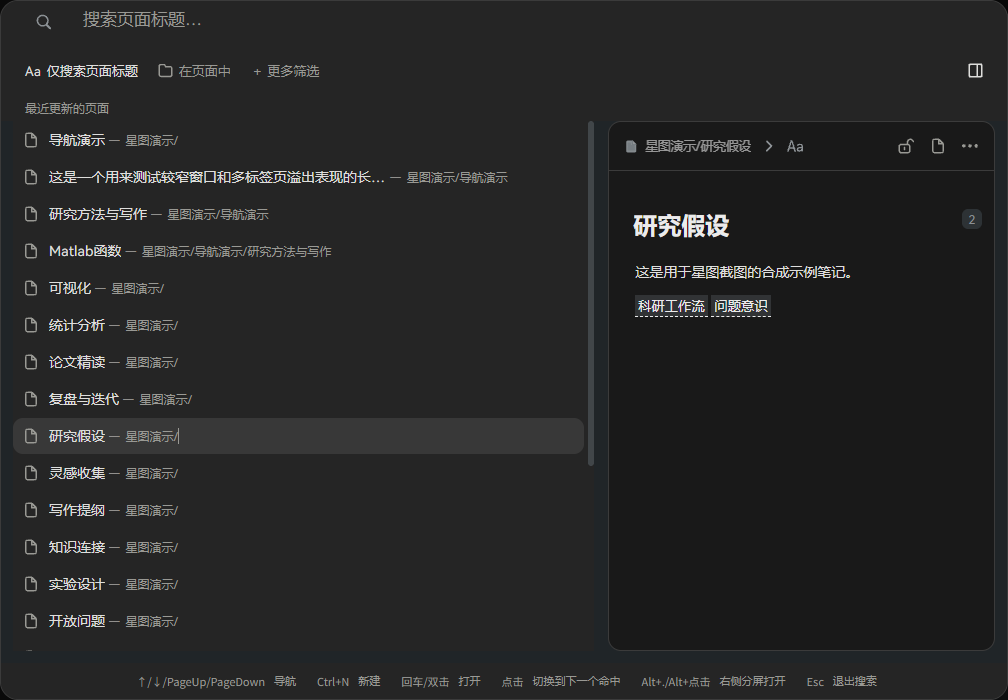
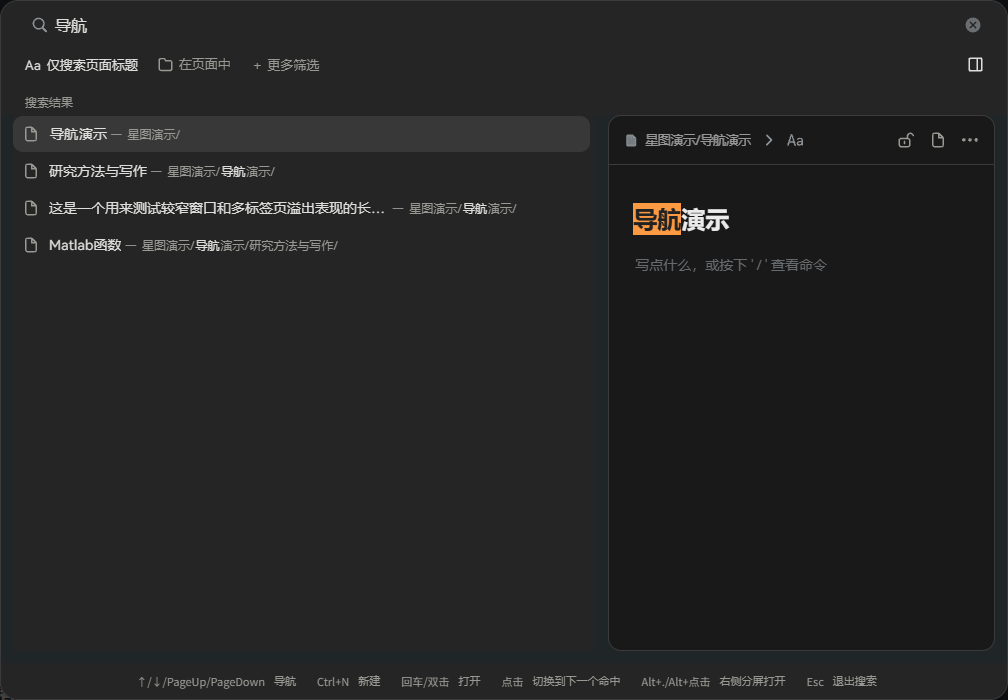
Align global search header across themes

diff --git a/index.js b/index.js
@@ -1,7 +1,7 @@
 const { Plugin, Setting, getAllEditor, openTab, showMessage } = require('siyuan');
 const css = "/* Scoped to the central workspace: sidebars, popovers and note content stay native. */\nhtml[data-theme-mode=\"dark\"] .layout__center {\n  --nn-tab: #202020;\n  --nn-active: #191919;\n  --nn-line: #303030;\n  --nn-text: #ebebeb;\n  --nn-muted: #9b9b9b;\n  --nn-separator: #555555;\n  --nn-hover: #292929;\n}\nhtml[data-theme-mode=\"light\"] .layout__center {\n  --nn-tab: #f7f7f5;\n  --nn-active: #ffffff;\n  --nn-line: #e9e9e7;\n  --nn-text: #37352f;\n  --nn-muted: #787774;\n  --nn-separator: #c4c4c0;\n  --nn-hover: #efefed;\n}\n.layout__center [data-type=\"wnd\"] > .fn__flex:has(> .layout-tab-bar) {\n  min-width: 0;\n  background: var(--nn-tab) !important;\n  border-radius: 0 !important;\n  box-shadow: inset 0 -1px var(--nn-line) !important;\n}\n.layout__center,\n.layout__center > .fn__flex:has([data-type=\"wnd\"]) {\n  border-top-left-radius: 0 !important;\n  border-top-right-radius: 0 !important;\n}\n.layout__center .layout-tab-bar {\n  margin-top: 0 !important;\n  margin-bottom: 0 !important;\n  margin-left: 0 !important;\n  /* SiYuan sets inline margin-right to reserve toolbar/window controls in merged mode. */\n  margin-right: 0;\n  height: 38px !important;\n  min-height: 38px !important;\n  padding: 0 !important;\n  gap: 0 !important;\n  border-radius: 0 !important;\n  background: transparent !important;\n  box-shadow: none !important;\n  border: 0 !important;\n}\nbody:not(.body--toolbar-hide) .layout__center .layout-tab-bar {\n  margin-right: 0 !important;\n}\n.layout__center .layout-tab-bar > .item:not(.item--readonly) {\n  box-sizing: border-box !important;\n  height: 38px !important;\n  min-height: 38px !important;\n  flex: 0 0 220px !important;\n  width: 220px !important;\n  max-width: 220px !important;\n  justify-content: flex-start !important;\n  margin: 0 !important;\n  padding: 0 12px 0 16px !important;\n  border: 0 !important;\n  border-right: 1px solid var(--nn-line) !important;\n  border-radius: 0 !important;\n  background: transparent !important;\n  box-shadow: none !important;\n  color: var(--nn-text) !important;\n  transition: none !important;\n  font-style: normal !important;\n}\n.layout__center .layout-tab-bar > .item:not(.item--readonly)::before,\n.layout__center .layout-tab-bar > .item:not(.item--readonly)::after {\n  display: none !important;\n}\n.layout__center .layout-tab-bar > .item:not(.item--readonly):hover {\n  background: var(--nn-hover) !important;\n  color: var(--nn-text) !important;\n}\n.layout__center .layout-tab-bar > .item.item--focus {\n  background: var(--nn-active) !important;\n  color: var(--nn-text) !important;\n}\n.layout__center .layout-tab-bar .item__text {\n  padding: 0 !important;\n  margin: 0 !important;\n  flex: 1 1 auto !important;\n  min-width: 0;\n  text-align: left !important;\n  font-family: var(--b3-font-family) !important;\n  font-style: normal !important;\n  font-size: 14px !important;\n  line-height: 20px !important;\n  color: inherit !important;\n  font-weight: 400 !important;\n  text-shadow: none !important;\n  transition: none !important;\n}\n.layout__center .layout-tab-bar .item--focus .item__text {\n  font-weight: 600 !important;\n}\n.layout__center .layout-tab-bar .item__icon {\n  margin-right: 6px !important;\n}\n.layout__center .layout-tab-bar .item__close {\n  opacity: 0;\n  border-radius: 4px !important;\n  color: var(--nn-muted) !important;\n  background: transparent !important;\n}\n.layout__center .layout-tab-bar .item:hover .item__close,\n.layout__center .layout-tab-bar .item:focus-within .item__close { opacity: 1; }\n.layout__center .layout-tab-bar > .item.item--pin { flex: 0 0 auto !important; width: auto !important; min-width: 38px; }\n.layout__center .layout-tab-bar:not(.layout-tab-bar--readonly) { flex: 0 1 auto !important; min-width: 0; overflow-x: auto !important; scrollbar-width: none; }\n.layout__center .layout-tab-bar--readonly { min-width: 64px; }\n.layout__center .layout-tab-bar .item__close:hover {\n  color: var(--nn-text) !important;\n  background: var(--nn-line) !important;\n}\n.layout__center .layout-tab-bar .item--readonly {\n  height: 38px !important;\n  min-height: 38px !important;\n  margin: 0 !important;\n  padding: 0 6px !important;\n  border: 0 !important;\n  border-radius: 0 !important;\n  background: transparent !important;\n  box-shadow: none !important;\n}\n.layout__center .layout-tab-bar .block__icon {\n  color: var(--nn-muted) !important;\n  border-radius: 4px !important;\n}\n.layout__center .layout-tab-bar .block__icon:hover {\n  color: var(--nn-text) !important;\n  background: var(--nn-hover) !important;\n}\n/* Native breadcrumb nodes, icons, arrows and hit areas remain intact. */\n.layout__center .protyle > .protyle-breadcrumb {\n  background: var(--nn-active) !important;\n  box-shadow: none !important;\n  border-radius: 0 !important;\n  color: var(--nn-text) !important;\n}\n.layout__center .protyle > .protyle-breadcrumb .protyle-breadcrumb__item {\n  border-radius: 4px !important;\n}\n.layout__center .protyle > .protyle-breadcrumb .protyle-breadcrumb__item:hover {\n  background: var(--nn-hover) !important;\n}\n/* Expand the native document button; its click/menu handlers remain SiYuan's. */\n.layout__center .protyle-breadcrumb__bar {\n  min-width: 0;\n}\n.layout__center .protyle-breadcrumb__bar > .protyle-breadcrumb__item:first-child[aria-label] {\n  flex-shrink: 1;\n  min-width: 24px;\n  max-width: min(520px, 55vw);\n}\n.layout__center .protyle-breadcrumb__bar > .protyle-breadcrumb__item:first-child[aria-label]::after {\n  content: attr(aria-label);\n  margin-left: 6px;\n  overflow: hidden;\n  text-overflow: ellipsis;\n  white-space: nowrap;\n  font: 13px/24px var(--b3-font-family);\n  color: var(--nn-text);\n}\n.layout__center .protyle-breadcrumb__bar:has(.nn-document-path) > .protyle-breadcrumb__item:first-of-type::after { display: none; }\n/* Keep SiYuan's focus and document controls outside the bar; avoid a second block trail. */\n.layout__center .protyle-breadcrumb__bar:has(.nn-document-path) > :not(.nn-document-path) { display: none !important; }\n.layout__center .nn-document-path { display: flex; align-items: center; min-width: 0; max-width: min(640px, 65vw); overflow-x: auto; scrollbar-width: none; }\n.layout__center .nn-document-path button { flex: none; max-width: 200px; overflow: hidden; text-overflow: ellipsis; white-space: nowrap; border: 0; border-radius: 4px; background: transparent; color: var(--nn-text); padding: 3px 5px; font: 13px var(--b3-font-family); cursor: pointer; }\n.layout__center .nn-document-path button:hover,.layout__center .nn-document-path button:focus-visible { background: var(--nn-hover); }\n.layout__center .nn-document-path button[aria-current=\"page\"] { font-weight: 600; }\n.layout__center .nn-path-separator { color: var(--nn-separator); padding: 0 3px; }\n.layout__center .nn-notebook { color: var(--nn-muted); font: 13px var(--b3-font-family); white-space: nowrap; padding: 0 5px; }\nbody.body--toolbar-hide .layout__center .layout__wnd--center > .fn__flex > .layout-tab-bar {\n  height: 42px !important;\n  min-height: 42px !important;\n}\n";
 const treeCSS = "html[data-theme-mode=\"dark\"] .sy__file {\n  --ni-surface: #202020; --ni-hover: #292929; --ni-selected: #303030;\n  --ni-text: #ddddda; --ni-muted: #999995; --ni-line: #303030;\n}\nhtml[data-theme-mode=\"light\"] .sy__file {\n  --ni-surface: #f7f7f5; --ni-hover: #efefed; --ni-selected: #e7e7e4;\n  --ni-text: #37352f; --ni-muted: #787774; --ni-line: #e5e5e2;\n}\n#layouts .sy__file.file-tree.dockPanel {\n  background: var(--ni-surface) !important;\n  color: var(--ni-text) !important;\n  border-radius: 0 !important;\n}\n#layouts .sy__file.file-tree.dockPanel > .block__icons {\n  background: transparent !important;\n  min-height: 36px;\n  padding: 4px 12px;\n  box-shadow: none !important;\n  border: 0 !important;\n}\n#layouts .sy__file.file-tree.dockPanel .block__logo {\n  font-size: 12px !important;\n  font-weight: 500 !important;\n  color: var(--ni-muted) !important;\n}\n#layouts .sy__file.file-tree.dockPanel .b3-list--background {\n  background: transparent !important;\n  box-shadow: none !important;\n}\n#layouts .sy__file.file-tree.dockPanel .b3-list-item {\n  min-height: 28px !important;\n  margin: 1px 6px !important;\n  padding-top: 0 !important;\n  padding-bottom: 0 !important;\n  border: 0 !important;\n  border-radius: 4px !important;\n  background: transparent !important;\n  box-shadow: none !important;\n  color: var(--ni-text) !important;\n  transition: none !important;\n}\n#layouts .sy__file.file-tree.dockPanel [data-type=\"navigation-root\"] {\n  margin-top: 6px !important;\n  margin-bottom: 3px !important;\n}\n#layouts .sy__file.file-tree.dockPanel .b3-list-item:hover {\n  background: var(--ni-hover) !important;\n}\n#layouts .sy__file.file-tree.dockPanel .b3-list-item--focus {\n  background: var(--ni-selected) !important;\n  color: var(--ni-text) !important;\n}\n#layouts .sy__file.file-tree.dockPanel .b3-list-item__text {\n  font-size: 14px !important;\n  line-height: 28px !important;\n  font-weight: 400 !important;\n  color: inherit !important;\n  text-shadow: none !important;\n}\n#layouts .sy__file.file-tree.dockPanel .b3-list-item--focus > .b3-list-item__text {\n  font-weight: 600 !important;\n}\n#layouts .sy__file.file-tree.dockPanel :is(.b3-list-item__toggle, .b3-list-item__arrow, .b3-list-item__graphic, .b3-list-item__action, .block__icon) {\n  color: var(--ni-muted) !important;\n}\n#layouts .sy__file.file-tree.dockPanel .b3-list-item__action {\n  opacity: 0 !important;\n  border-radius: 3px !important;\n}\n#layouts .sy__file.file-tree.dockPanel .b3-list-item:is(:hover, :focus-within) > .b3-list-item__action {\n  opacity: 1 !important;\n}\n#layouts .sy__file.file-tree.dockPanel .b3-list-item__action:hover {\n  background: var(--ni-selected) !important;\n  color: var(--ni-text) !important;\n}\n#layouts .sy__file.file-tree.dockPanel .counter {\n  background: transparent !important;\n  color: var(--ni-muted) !important;\n  box-shadow: none !important;\n  font-size: 11px !important;\n}\n#layouts .sy__file.file-tree.dockPanel :focus-visible {\n  outline: 2px solid var(--b3-theme-primary) !important;\n  outline-offset: -2px;\n}\n";
-const searchCSS = "html[data-theme-mode=\"dark\"] [data-key=\"dialog-globalsearch\"] {\n  --ni-surface: #252525; --ni-input: #252525; --ni-results: #252525; --ni-preview: #191919;\n  --ni-hover: #303030; --ni-selected: #383838; --ni-line: #3b3b3b;\n  --ni-text: #dededc; --ni-muted: #999994; --ni-mark: transparent; --ni-mark-text: #dededc;\n}\nhtml[data-theme-mode=\"light\"] [data-key=\"dialog-globalsearch\"] {\n  --ni-surface: #ffffff; --ni-input: #ffffff; --ni-results: #ffffff; --ni-preview: #fafaf9;\n  --ni-hover: #f7f7f5; --ni-selected: #efefed; --ni-line: #e9e9e7;\n  --ni-text: #37352f; --ni-muted: #787774; --ni-mark: #f4e8c4; --ni-mark-text: #655029;\n}\n[data-key=\"dialog-globalsearch\"] .b3-dialog__container {\n  position: fixed !important;\n  left: 50% !important;\n  top: 50% !important;\n  transform: translate(-50%, -50%) !important;\n  margin: 0 !important;\n  width: min(1008px, calc(100vw - 32px)) !important;\n  height: min(700px, calc(100vh - 48px)) !important;\n  max-width: calc(100vw - 32px);\n  max-height: calc(100vh - 48px);\n  border: 1px solid var(--ni-line) !important;\n  border-radius: 18px !important;\n  background: var(--ni-surface) !important;\n  box-shadow: 0 16px 64px #00000030 !important;\n  color: var(--ni-text);\n}\n[data-key=\"dialog-globalsearch\"] .b3-dialog__body > .fn__flex-column {\n  background: var(--ni-surface) !important;\n  border-radius: 18px !important;\n}\n/* Put the query first without moving or replacing native controls. */\n[data-key=\"dialog-globalsearch\"] .b3-dialog__body > .fn__flex-column > .block__icons { order: 3; }\n[data-key=\"dialog-globalsearch\"] .b3-dialog__body > .fn__flex-column > .search__header { order: 4; }\n[data-key=\"dialog-globalsearch\"] .b3-dialog__body > .fn__flex-column > .search__header:has(#searchInput) { order: 1; }\n[data-key=\"dialog-globalsearch\"] #criteria { order: 5; }\n[data-key=\"dialog-globalsearch\"] .ni-search-controls { order: 2; }\n[data-key=\"dialog-globalsearch\"] .ni-search-label { order: 6; }\n[data-key=\"dialog-globalsearch\"] .search__layout { order: 7; flex-direction: row !important; min-height: 0; padding: 0 12px 12px; gap: 14px; }\n[data-key=\"dialog-globalsearch\"] .search__tip { order: 8; }\n[data-key=\"dialog-globalsearch\"] .search__drag { display: none !important; }\n[data-key=\"dialog-globalsearch\"] .search__header {\n  background: var(--ni-input) !important;\n  border-radius: 0 !important;\n  box-shadow: none !important;\n  border: 0 !important;\n}\n[data-key=\"dialog-globalsearch\"] .search__header:has(#searchInput) {\n  min-height: 54px;\n  padding: 0 14px !important;\n}\n[data-key=\"dialog-globalsearch\"] #searchInput {\n  font-family: var(--b3-font-family) !important;\n  font-size: 17px !important;\n  line-height: 26px !important;\n  min-height: 54px !important;\n  padding: 14px 32px 14px 36px !important;\n  background: transparent !important;\n  color: var(--ni-text) !important;\n  border-radius: 0 !important;\n  box-shadow: none !important;\n}\n[data-key=\"dialog-globalsearch\"] #searchInput::placeholder { color: var(--ni-muted); font-size: 17px; }\n[data-key=\"dialog-globalsearch\"] #searchHistoryBtn .search__arrowdown { display: none; }\n[data-key=\"dialog-globalsearch\"].ni-search-ready:not(.ni-search-advanced) .search__header:has(#searchInput) > .block__icons,\n[data-key=\"dialog-globalsearch\"].ni-search-ready:not(.ni-search-advanced) .b3-dialog__body > .fn__flex-column > .block__icons,\n[data-key=\"dialog-globalsearch\"].ni-search-ready:not(.ni-search-advanced) #criteria { display: none !important; }\n[data-key=\"dialog-globalsearch\"] .ni-search-controls { display: flex; align-items: center; gap: 6px; padding: 0 17px 7px; min-height: 31px; }\n[data-key=\"dialog-globalsearch\"] .ni-search-controls button { display: inline-flex; align-items: center; gap: 6px; min-width: 0; padding: 5px 7px; font: 13px/20px var(--b3-font-family); color: var(--ni-muted); background: transparent; border: 0; border-radius: 5px; cursor: pointer; white-space: nowrap; }\n[data-key=\"dialog-globalsearch\"] .ni-search-controls button:hover { background: var(--ni-hover); color: var(--ni-text); }\n[data-key=\"dialog-globalsearch\"] .ni-search-controls button[aria-pressed=\"true\"] { color: var(--ni-text); }\n[data-key=\"dialog-globalsearch\"] .ni-search-controls button:disabled { opacity: .45; cursor: default; }\n[data-key=\"dialog-globalsearch\"] .ni-search-controls svg { width: 15px; height: 15px; flex: none; }\n[data-key=\"dialog-globalsearch\"] .ni-search-controls [data-ni-action=\"path\"] span { max-width: 220px; overflow: hidden; text-overflow: ellipsis; }\n[data-key=\"dialog-globalsearch\"] .ni-search-spacer { flex: 1; }\n[data-key=\"dialog-globalsearch\"] .ni-search-label { padding: 7px 24px 5px; font-size: 12px; color: var(--ni-muted); }\n[data-key=\"dialog-globalsearch\"] .search__header .block__icons,\n[data-key=\"dialog-globalsearch\"] .b3-dialog__body > .fn__flex-column > .block__icons {\n  background: transparent !important;\n  box-shadow: none !important;\n  border: 0 !important;\n  color: var(--ni-muted) !important;\n}\n[data-key=\"dialog-globalsearch\"] .b3-dialog__body > .fn__flex-column > .block__icons {\n  padding: 4px 14px;\n  min-height: 32px;\n  font-size: 12px;\n}\n[data-key=\"dialog-globalsearch\"] .block__icon { color: var(--ni-muted) !important; border-radius: 4px !important; }\n[data-key=\"dialog-globalsearch\"] .block__icon:not([disabled]):hover { background: var(--ni-hover) !important; color: var(--ni-text) !important; }\n[data-key=\"dialog-globalsearch\"] #criteria { padding: 2px 14px 8px; }\n[data-key=\"dialog-globalsearch\"] #criteria .b3-button {\n  color: var(--ni-muted) !important;\n  background: transparent !important;\n  border: 1px solid var(--ni-line) !important;\n  box-shadow: none !important;\n  border-radius: 4px !important;\n  font-size: 12px;\n}\n[data-key=\"dialog-globalsearch\"] #searchList {\n  flex: 1 1 60% !important;\n  width: 0 !important;\n  height: auto !important;\n  min-width: 0;\n  margin: 0 !important;\n  padding: 0 4px 0 0 !important;\n  border-radius: 0 !important;\n  background: var(--ni-results) !important;\n}\n[data-key=\"dialog-globalsearch\"] #searchList [data-type=\"search-item\"] {\n  display: flex !important;\n  flex-wrap: nowrap !important;\n  align-items: center !important;\n  min-height: 36px !important;\n  height: 36px !important;\n  margin: 1px 0 !important;\n  padding: 0 10px !important;\n  border: 0 !important;\n  border-radius: 10px !important;\n  background: transparent !important;\n  box-shadow: none !important;\n  color: var(--ni-text) !important;\n}\n[data-key=\"dialog-globalsearch\"] #searchList > .b3-list-item[data-type=\"search-item\"]:hover { background: var(--ni-hover) !important; }\n[data-key=\"dialog-globalsearch\"] #searchList > .b3-list-item[data-type=\"search-item\"].b3-list-item--focus { background: var(--ni-selected) !important; }\n[data-key=\"dialog-globalsearch\"] #searchList .b3-list-item__graphic {\n  color: var(--ni-muted) !important;\n  position: static !important;\n  flex: none !important;\n  width: 16px; height: 16px;\n  margin: 0 10px 0 0 !important;\n  padding: 0 !important;\n}\n[data-key=\"dialog-globalsearch\"] #searchList .b3-list-item__text {\n  display: block !important;\n  flex: 0 1 auto !important;\n  max-width: 68%;\n  white-space: nowrap !important;\n  overflow: hidden !important;\n  text-overflow: ellipsis !important;\n  -webkit-line-clamp: 1 !important;\n  min-width: 0;\n  padding: 0 !important;\n  margin: 0 !important;\n  font-size: 14px !important;\n  line-height: 22px !important;\n  color: var(--ni-text) !important;\n  font-weight: 400 !important;\n}\n[data-key=\"dialog-globalsearch\"] #searchList .b3-list-item__meta {\n  position: static !important;\n  order: 0 !important;\n  flex: 1 1 40% !important;\n  min-width: 0;\n  max-width: none !important;\n  margin: 0 !important;\n  padding: 0 !important;\n  font-size: 12px !important;\n  line-height: 22px !important;\n  text-align: left !important;\n  color: var(--ni-muted) !important;\n  opacity: 1 !important;\n  background: transparent !important;\n}\n[data-key=\"dialog-globalsearch\"] #searchList .b3-list-item__meta::before { display: inline !important; content: ' — ' !important; white-space: pre; }\n[data-key=\"dialog-globalsearch\"] #searchList mark {\n  color: var(--ni-mark-text) !important;\n  background: var(--ni-mark) !important;\n  border-radius: 2px;\n  padding: 0 1px;\n}\n[data-key=\"dialog-globalsearch\"] #searchList .counter { display: none !important; }\n[data-key=\"dialog-globalsearch\"] #searchPreview {\n  flex: 1 1 40% !important;\n  width: 0 !important; min-width: 0; height: auto !important;\n  border: 1px solid var(--ni-line) !important;\n  border-radius: 13px !important;\n  margin: 0 !important;\n  background: var(--ni-preview) !important;\n  overflow: hidden;\n}\n[data-key=\"dialog-globalsearch\"] #searchPreview > .protyle-content { background: transparent !important; }\n[data-key=\"dialog-globalsearch\"] #searchPreview > .protyle-breadcrumb { padding: 9px 12px; border-bottom: 1px solid var(--ni-line); background: transparent !important; }\n[data-key=\"dialog-globalsearch\"] #searchPreview .protyle-title { margin: 30px 22px 12px !important; font-size: 24px !important; }\n[data-key=\"dialog-globalsearch\"] #searchPreview .protyle-title__input { font-size: 24px !important; line-height: 1.4 !important; padding: 0 !important; }\n[data-key=\"dialog-globalsearch\"].ni-search-recent #searchPreview .protyle-title__input.protyle-wysiwyg--hl::after { background: transparent !important; }\n[data-key=\"dialog-globalsearch\"] #searchPreview .protyle-wysiwyg { padding: 0 22px 60px !important; font-size: 14px !important; }\n[data-key=\"dialog-globalsearch\"].ni-search-no-preview #searchPreview { display: none !important; }\n[data-key=\"dialog-globalsearch\"] .search__tip {\n  padding: 8px 12px;\n  background: var(--ni-surface) !important;\n  border-top: 1px solid var(--ni-line);\n  font-size: 11px;\n  color: var(--ni-muted) !important;\n}\n[data-key=\"dialog-globalsearch\"] .search__tip kbd { background: transparent !important; box-shadow: none !important; color: var(--ni-muted) !important; }\n[data-key=\"dialog-globalsearch\"] :focus-visible { outline: 2px solid var(--b3-theme-primary); outline-offset: -2px; }\n[data-key=\"dialog-globalsearch\"] #searchInput:focus-visible { outline: none; }\n@media (max-width: 760px) {\n  [data-key=\"dialog-globalsearch\"] .b3-dialog__container { max-width: calc(100vw - 24px); }\n  [data-key=\"dialog-globalsearch\"] .search__header:has(#searchInput) { flex-wrap: wrap; }\n  [data-key=\"dialog-globalsearch\"] .search__header:has(#searchInput) > .fn__flex-1 { min-width: 160px; }\n  [data-key=\"dialog-globalsearch\"] #searchPreview { display: none !important; }\n  [data-key=\"dialog-globalsearch\"] .ni-search-controls { gap: 0; padding: 0 10px 7px; }\n  [data-key=\"dialog-globalsearch\"] .ni-search-controls [data-ni-action=\"preview\"] { display: none; }\n  [data-key=\"dialog-globalsearch\"] .ni-search-controls [data-ni-action=\"path\"] span { max-width: 90px; }\n}\n";
+const searchCSS = "html[data-theme-mode=\"dark\"] [data-key=\"dialog-globalsearch\"] {\n  --ni-surface: #252525; --ni-input: #252525; --ni-results: #252525; --ni-preview: #191919;\n  --ni-hover: #303030; --ni-selected: #383838; --ni-line: #3b3b3b;\n  --ni-text: #dededc; --ni-muted: #999994; --ni-mark: transparent; --ni-mark-text: #dededc;\n}\nhtml[data-theme-mode=\"light\"] [data-key=\"dialog-globalsearch\"] {\n  --ni-surface: #ffffff; --ni-input: #ffffff; --ni-results: #ffffff; --ni-preview: #fafaf9;\n  --ni-hover: #f7f7f5; --ni-selected: #efefed; --ni-line: #e9e9e7;\n  --ni-text: #37352f; --ni-muted: #787774; --ni-mark: #f4e8c4; --ni-mark-text: #655029;\n}\n[data-key=\"dialog-globalsearch\"] .b3-dialog__container {\n  position: fixed !important;\n  left: 50% !important;\n  top: 50% !important;\n  transform: translate(-50%, -50%) !important;\n  margin: 0 !important;\n  width: min(1008px, calc(100vw - 32px)) !important;\n  height: min(700px, calc(100vh - 48px)) !important;\n  max-width: calc(100vw - 32px);\n  max-height: calc(100vh - 48px);\n  border: 1px solid var(--ni-line) !important;\n  border-radius: 18px !important;\n  background: var(--ni-surface) !important;\n  box-shadow: 0 16px 64px #00000030 !important;\n  color: var(--ni-text);\n}\n[data-key=\"dialog-globalsearch\"] .b3-dialog__body > .fn__flex-column {\n  background: var(--ni-surface) !important;\n  border-radius: 18px !important;\n}\n/* Put the query first without moving or replacing native controls. */\n[data-key=\"dialog-globalsearch\"] .b3-dialog__body > .fn__flex-column > .block__icons { order: 3; }\n[data-key=\"dialog-globalsearch\"] .b3-dialog__body > .fn__flex-column > .search__header { order: 4; }\n[data-key=\"dialog-globalsearch\"] .b3-dialog__body > .fn__flex-column > .search__header:has(#searchInput) { order: 1; }\n[data-key=\"dialog-globalsearch\"] #criteria { order: 5; }\n[data-key=\"dialog-globalsearch\"] .ni-search-controls { order: 2; }\n[data-key=\"dialog-globalsearch\"] .ni-search-label { order: 6; }\n[data-key=\"dialog-globalsearch\"] .search__layout { order: 7; flex-direction: row !important; min-height: 0; padding: 0 12px 12px; gap: 14px; }\n[data-key=\"dialog-globalsearch\"] .search__tip { order: 8; }\n[data-key=\"dialog-globalsearch\"] .search__drag { display: none !important; }\n[data-key=\"dialog-globalsearch\"] .search__header {\n  background: var(--ni-input) !important;\n  border-radius: 0 !important;\n  box-shadow: none !important;\n  border: 0 !important;\n}\n[data-key=\"dialog-globalsearch\"].ni-search-ready .b3-dialog__container .fn__flex-column .b3-form__icon.search__header:has(#searchInput) {\n  min-height: 48px !important;\n  margin: 0 !important;\n  padding: 0 18px !important;\n  border-radius: 0 !important;\n  box-shadow: none !important;\n}\n[data-key=\"dialog-globalsearch\"].ni-search-ready .b3-dialog__container .fn__flex-column .b3-form__icon.search__header #searchInput {\n  font-family: var(--b3-font-family) !important;\n  font-size: 16px !important;\n  line-height: 24px !important;\n  height: 48px !important;\n  min-height: 48px !important;\n  padding: 12px 32px 12px 36px !important;\n  background: transparent !important;\n  color: var(--ni-text) !important;\n  border-radius: 0 !important;\n  box-shadow: none !important;\n}\n[data-key=\"dialog-globalsearch\"] #searchInput::placeholder { color: var(--ni-muted); font-size: 16px; }\n[data-key=\"dialog-globalsearch\"].ni-search-ready .search__header:has(#searchInput) #searchHistoryBtn { top: 50% !important; transform: translateY(-50%); }\n[data-key=\"dialog-globalsearch\"].ni-search-ready .search__header:has(#searchInput) .b3-form__icon-clear { height: 48px !important; }\n[data-key=\"dialog-globalsearch\"] #searchHistoryBtn .search__arrowdown { display: none; }\n[data-key=\"dialog-globalsearch\"].ni-search-ready:not(.ni-search-advanced) .search__header:has(#searchInput) > .block__icons,\n[data-key=\"dialog-globalsearch\"].ni-search-ready:not(.ni-search-advanced) .b3-dialog__body > .fn__flex-column > .block__icons,\n[data-key=\"dialog-globalsearch\"].ni-search-ready:not(.ni-search-advanced) #criteria { display: none !important; }\n[data-key=\"dialog-globalsearch\"] .ni-search-controls { display: flex; align-items: center; gap: 6px; padding: 0 17px 7px; min-height: 31px; }\n[data-key=\"dialog-globalsearch\"] .ni-search-controls button { display: inline-flex; align-items: center; gap: 6px; min-width: 0; padding: 5px 7px; font: 13px/20px var(--b3-font-family); color: var(--ni-muted); background: transparent; border: 0; border-radius: 5px; cursor: pointer; white-space: nowrap; }\n[data-key=\"dialog-globalsearch\"] .ni-search-controls button:hover { background: var(--ni-hover); color: var(--ni-text); }\n[data-key=\"dialog-globalsearch\"] .ni-search-controls button[aria-pressed=\"true\"] { color: var(--ni-text); }\n[data-key=\"dialog-globalsearch\"] .ni-search-controls button:disabled { opacity: .45; cursor: default; }\n[data-key=\"dialog-globalsearch\"] .ni-search-controls svg { width: 15px; height: 15px; flex: none; }\n[data-key=\"dialog-globalsearch\"] .ni-search-controls [data-ni-action=\"path\"] span { max-width: 220px; overflow: hidden; text-overflow: ellipsis; }\n[data-key=\"dialog-globalsearch\"] .ni-search-spacer { flex: 1; }\n[data-key=\"dialog-globalsearch\"] .ni-search-label { padding: 7px 24px 5px; font-size: 12px; color: var(--ni-muted); }\n[data-key=\"dialog-globalsearch\"] .search__header .block__icons,\n[data-key=\"dialog-globalsearch\"] .b3-dialog__body > .fn__flex-column > .block__icons {\n  background: transparent !important;\n  box-shadow: none !important;\n  border: 0 !important;\n  color: var(--ni-muted) !important;\n}\n[data-key=\"dialog-globalsearch\"] .b3-dialog__body > .fn__flex-column > .block__icons {\n  padding: 4px 14px;\n  min-height: 32px;\n  font-size: 12px;\n}\n[data-key=\"dialog-globalsearch\"] .block__icon { color: var(--ni-muted) !important; border-radius: 4px !important; }\n[data-key=\"dialog-globalsearch\"] .block__icon:not([disabled]):hover { background: var(--ni-hover) !important; color: var(--ni-text) !important; }\n[data-key=\"dialog-globalsearch\"] #criteria { padding: 2px 14px 8px; }\n[data-key=\"dialog-globalsearch\"] #criteria .b3-button {\n  color: var(--ni-muted) !important;\n  background: transparent !important;\n  border: 1px solid var(--ni-line) !important;\n  box-shadow: none !important;\n  border-radius: 4px !important;\n  font-size: 12px;\n}\n[data-key=\"dialog-globalsearch\"] #searchList {\n  flex: 1 1 60% !important;\n  width: 0 !important;\n  height: auto !important;\n  min-width: 0;\n  margin: 0 !important;\n  padding: 0 4px 0 0 !important;\n  border-radius: 0 !important;\n  background: var(--ni-results) !important;\n}\n[data-key=\"dialog-globalsearch\"] #searchList [data-type=\"search-item\"] {\n  display: flex !important;\n  flex-wrap: nowrap !important;\n  align-items: center !important;\n  min-height: 36px !important;\n  height: 36px !important;\n  margin: 1px 0 !important;\n  padding: 0 10px !important;\n  border: 0 !important;\n  border-radius: 10px !important;\n  background: transparent !important;\n  box-shadow: none !important;\n  color: var(--ni-text) !important;\n}\n[data-key=\"dialog-globalsearch\"] #searchList > .b3-list-item[data-type=\"search-item\"]:hover { background: var(--ni-hover) !important; }\n[data-key=\"dialog-globalsearch\"] #searchList > .b3-list-item[data-type=\"search-item\"].b3-list-item--focus { background: var(--ni-selected) !important; }\n[data-key=\"dialog-globalsearch\"] #searchList .b3-list-item__graphic {\n  color: var(--ni-muted) !important;\n  position: static !important;\n  flex: none !important;\n  width: 16px; height: 16px;\n  margin: 0 10px 0 0 !important;\n  padding: 0 !important;\n}\n[data-key=\"dialog-globalsearch\"] #searchList .b3-list-item__text {\n  display: block !important;\n  flex: 0 1 auto !important;\n  max-width: 68%;\n  white-space: nowrap !important;\n  overflow: hidden !important;\n  text-overflow: ellipsis !important;\n  -webkit-line-clamp: 1 !important;\n  min-width: 0;\n  padding: 0 !important;\n  margin: 0 !important;\n  font-size: 14px !important;\n  line-height: 22px !important;\n  color: var(--ni-text) !important;\n  font-weight: 400 !important;\n}\n[data-key=\"dialog-globalsearch\"] #searchList .b3-list-item__meta {\n  position: static !important;\n  order: 0 !important;\n  flex: 1 1 40% !important;\n  min-width: 0;\n  max-width: none !important;\n  margin: 0 !important;\n  padding: 0 !important;\n  font-size: 12px !important;\n  line-height: 22px !important;\n  text-align: left !important;\n  color: var(--ni-muted) !important;\n  opacity: 1 !important;\n  background: transparent !important;\n}\n[data-key=\"dialog-globalsearch\"] #searchList .b3-list-item__meta::before { display: inline !important; content: ' — ' !important; white-space: pre; }\n[data-key=\"dialog-globalsearch\"] #searchList mark {\n  color: var(--ni-mark-text) !important;\n  background: var(--ni-mark) !important;\n  border-radius: 2px;\n  padding: 0 1px;\n}\n[data-key=\"dialog-globalsearch\"] #searchList .counter { display: none !important; }\n[data-key=\"dialog-globalsearch\"] #searchPreview {\n  flex: 1 1 40% !important;\n  width: 0 !important; min-width: 0; height: auto !important;\n  border: 1px solid var(--ni-line) !important;\n  border-radius: 13px !important;\n  margin: 0 !important;\n  background: var(--ni-preview) !important;\n  overflow: hidden;\n}\n[data-key=\"dialog-globalsearch\"] #searchPreview > .protyle-content { background: transparent !important; }\n[data-key=\"dialog-globalsearch\"] #searchPreview > .protyle-breadcrumb { padding: 9px 12px; border-bottom: 1px solid var(--ni-line); background: transparent !important; }\n[data-key=\"dialog-globalsearch\"] #searchPreview .protyle-title { margin: 30px 22px 12px !important; font-size: 24px !important; }\n[data-key=\"dialog-globalsearch\"] #searchPreview .protyle-title__input { font-size: 24px !important; line-height: 1.4 !important; padding: 0 !important; }\n[data-key=\"dialog-globalsearch\"].ni-search-recent #searchPreview .protyle-title__input.protyle-wysiwyg--hl::after { background: transparent !important; }\n[data-key=\"dialog-globalsearch\"] #searchPreview .protyle-wysiwyg { padding: 0 22px 60px !important; font-size: 14px !important; }\n[data-key=\"dialog-globalsearch\"].ni-search-no-preview #searchPreview { display: none !important; }\n[data-key=\"dialog-globalsearch\"] .search__tip {\n  padding: 8px 12px;\n  background: var(--ni-surface) !important;\n  border-top: 1px solid var(--ni-line);\n  font-size: 11px;\n  color: var(--ni-muted) !important;\n}\n[data-key=\"dialog-globalsearch\"] .search__tip kbd { background: transparent !important; box-shadow: none !important; color: var(--ni-muted) !important; }\n[data-key=\"dialog-globalsearch\"] :focus-visible { outline: 2px solid var(--b3-theme-primary); outline-offset: -2px; }\n[data-key=\"dialog-globalsearch\"] #searchInput:focus-visible { outline: none; }\n@media (max-width: 760px) {\n  [data-key=\"dialog-globalsearch\"] .b3-dialog__container { max-width: calc(100vw - 24px); }\n  [data-key=\"dialog-globalsearch\"] .search__header:has(#searchInput) { flex-wrap: wrap; }\n  [data-key=\"dialog-globalsearch\"] .search__header:has(#searchInput) > .fn__flex-1 { min-width: 160px; }\n  [data-key=\"dialog-globalsearch\"] #searchPreview { display: none !important; }\n  [data-key=\"dialog-globalsearch\"] .ni-search-controls { gap: 0; padding: 0 10px 7px; }\n  [data-key=\"dialog-globalsearch\"] .ni-search-controls [data-ni-action=\"preview\"] { display: none; }\n  [data-key=\"dialog-globalsearch\"] .ni-search-controls [data-ni-action=\"path\"] span { max-width: 90px; }\n}\n";
 const findCSS = "html[data-theme-mode=\"dark\"] .ni-find { --nf-bg:#202020; --nf-line:#41464c; --nf-focus:#485761; --nf-text:#dededb; --nf-muted:#979792; --nf-hover:#303030; }\nhtml[data-theme-mode=\"light\"] .ni-find { --nf-bg:#fff; --nf-line:#d7d7d4; --nf-focus:#b2c2ce; --nf-text:#37352f; --nf-muted:#787774; --nf-hover:#f2f2ef; }\n.ni-find:not(.ni-find-expanded), .ni-find:not(.ni-find-expanded) > .b3-dialog { pointer-events:none; }\n.ni-find:not(.ni-find-expanded) .b3-dialog__scrim { background:transparent!important; pointer-events:none; backdrop-filter:none!important; }\n.ni-find:not(.ni-find-expanded) .b3-dialog__container {\n  position:fixed!important; top:var(--ni-find-top)!important; right:var(--ni-find-right)!important; left:auto!important; bottom:auto!important;\n  transform:none!important; width:min(284px, var(--ni-find-width), calc(100vw - 32px))!important; height:auto!important; min-height:42px!important; max-height:calc(100vh - 32px);\n  margin:0!important; padding:0!important; border:1px solid var(--nf-line)!important; border-radius:13px!important; background:var(--nf-bg)!important;\n  box-shadow:0 3px 12px #00000018!important; pointer-events:auto; overflow:hidden;\n}\n.ni-find:not(.ni-find-expanded) .b3-dialog__container:focus-within { border-color:var(--nf-focus)!important; box-shadow:0 0 0 1px var(--nf-focus)!important; }\n.ni-find:not(.ni-find-expanded) .b3-dialog__body > .fn__flex-column { background:transparent!important; height:auto!important; border-radius:0!important; }\n.ni-find:not(.ni-find-expanded) .b3-dialog__body > .fn__flex-column > :not(.search__header:has(#searchInput)):not(.ni-find-tools) { display:none!important; }\n.ni-find:not(.ni-find-expanded) .search__header:has(#searchInput) { display:flex!important; align-items:center; order:1; padding:0 8px 0 10px!important; margin:0!important; min-height:42px; background:transparent!important; border:0!important; border-radius:0!important; box-shadow:none!important; }\n.ni-find:not(.ni-find-expanded) .search__header:has(#searchInput) > .fn__flex-1 { min-width:0; }\n.ni-find:not(.ni-find-expanded) #searchInput { display:block; box-sizing:border-box; width:100%; min-height:40px!important; height:40px!important; max-height:40px!important; padding:10px 0!important; margin:0!important; resize:none; font:13px/20px var(--b3-font-family)!important; border:0!important; border-radius:0!important; outline:none!important; box-shadow:none!important; background:transparent!important; color:var(--nf-text)!important; }\n.ni-find:not(.ni-find-expanded) #searchInput::placeholder { color:var(--nf-muted); text-align:left!important; opacity:1; font-size:13px!important; }\n.ni-find:not(.ni-find-expanded) #searchInput { text-align:left!important; }\n/* Savor reserves 60 px for its search icon; the compact panel has no icon. */\n.ni-find.b3-dialog--open[data-key=\"dialog-search\"]:not(.ni-find-expanded) .b3-dialog__container .fn__flex-column .b3-form__icon.search__header #searchInput { padding:10px 0!important; }\n.ni-find:not(.ni-find-expanded) .search__header:has(#searchInput) > .block__icons,\n.ni-find:not(.ni-find-expanded) #searchHistoryBtn,\n.ni-find:not(.ni-find-expanded) .search__header:has(#searchInput) .b3-form__icon-clear { display:none!important; }\n.ni-find .ni-find-close { flex:none; width:28px; height:28px; padding:0; border:0; border-radius:4px; font:20px/28px var(--b3-font-family); color:var(--nf-muted); background:transparent; cursor:pointer; }\n.ni-find .ni-find-close:hover { background:var(--nf-hover); color:var(--nf-text); }\n.ni-find .ni-find-tools { display:flex; flex-wrap:wrap; order:2; gap:3px; align-items:center; padding:3px 8px 8px 10px; color:var(--nf-muted); font:12px/22px var(--b3-font-family); }\n.ni-find:not(.ni-find-has-query):not(.ni-find-expanded) .ni-find-tools { display:none; }\n.ni-find .ni-find-tools [role=\"status\"] { flex:1; min-width:65px; }\n.ni-find .ni-find-tools button { border:0; border-radius:4px; padding:2px 6px; background:transparent; color:var(--nf-muted); font:12px/22px var(--b3-font-family); cursor:pointer; white-space:nowrap; }\n.ni-find .ni-find-tools button:hover:not(:disabled) { background:var(--nf-hover); color:var(--nf-text); }\n.ni-find .ni-find-tools button:disabled { opacity:.35; cursor:default; }\n.ni-find button:focus-visible { outline:2px solid var(--nf-focus); outline-offset:-2px; }\n.layout__center .ni-find-current { outline:1px solid #b59b55; outline-offset:2px; background-color:#b59b551c!important; }\n";
 
 module.exports = class NotionNavigation extends Plugin {

diff --git a/search.css b/search.css
@@ -44,22 +44,28 @@ html[data-theme-mode="light"] [data-key="dialog-globalsearch"] {
   box-shadow: none !important;
   border: 0 !important;
 }
-[data-key="dialog-globalsearch"] .search__header:has(#searchInput) {
-  min-height: 54px;
-  padding: 0 14px !important;
+[data-key="dialog-globalsearch"].ni-search-ready .b3-dialog__container .fn__flex-column .b3-form__icon.search__header:has(#searchInput) {
+  min-height: 48px !important;
+  margin: 0 !important;
+  padding: 0 18px !important;
+  border-radius: 0 !important;
+  box-shadow: none !important;
 }
-[data-key="dialog-globalsearch"] #searchInput {
+[data-key="dialog-globalsearch"].ni-search-ready .b3-dialog__container .fn__flex-column .b3-form__icon.search__header #searchInput {
   font-family: var(--b3-font-family) !important;
-  font-size: 17px !important;
-  line-height: 26px !important;
-  min-height: 54px !important;
-  padding: 14px 32px 14px 36px !important;
+  font-size: 16px !important;
+  line-height: 24px !important;
+  height: 48px !important;
+  min-height: 48px !important;
+  padding: 12px 32px 12px 36px !important;
   background: transparent !important;
   color: var(--ni-text) !important;
   border-radius: 0 !important;
   box-shadow: none !important;
 }
-[data-key="dialog-globalsearch"] #searchInput::placeholder { color: var(--ni-muted); font-size: 17px; }
+[data-key="dialog-globalsearch"] #searchInput::placeholder { color: var(--ni-muted); font-size: 16px; }
+[data-key="dialog-globalsearch"].ni-search-ready .search__header:has(#searchInput) #searchHistoryBtn { top: 50% !important; transform: translateY(-50%); }
+[data-key="dialog-globalsearch"].ni-search-ready .search__header:has(#searchInput) .b3-form__icon-clear { height: 48px !important; }
 [data-key="dialog-globalsearch"] #searchHistoryBtn .search__arrowdown { display: none; }
 [data-key="dialog-globalsearch"].ni-search-ready:not(.ni-search-advanced) .search__header:has(#searchInput) > .block__icons,
 [data-key="dialog-globalsearch"].ni-search-ready:not(.ni-search-advanced) .b3-dialog__body > .fn__flex-column > .block__icons,

diff --git a/README.md b/README.md
@@ -70,3 +70,7 @@
 ## 0.4.8
 
 - 左右分屏或调整笔记区域宽度时，Ctrl+F 页内查找框会跟随当前笔记移动，不再停留在图谱等相邻面板上方。
+
+## 0.4.9
+
+- 修正 Savor 主题覆盖全局搜索栏的间距和圆角：输入行更紧凑，搜索图标、文字及清空按钮垂直居中。
